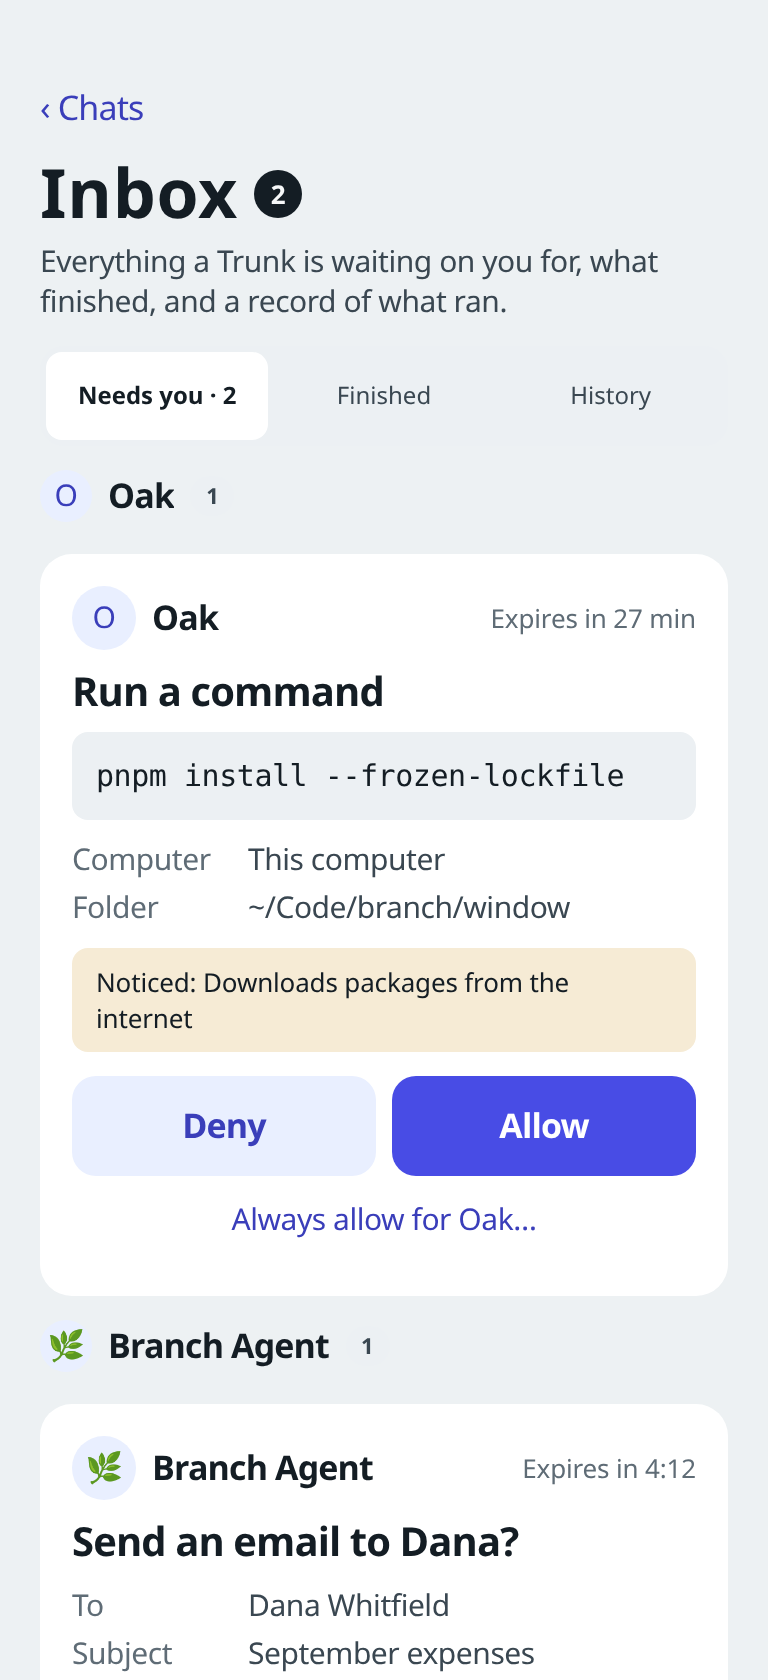
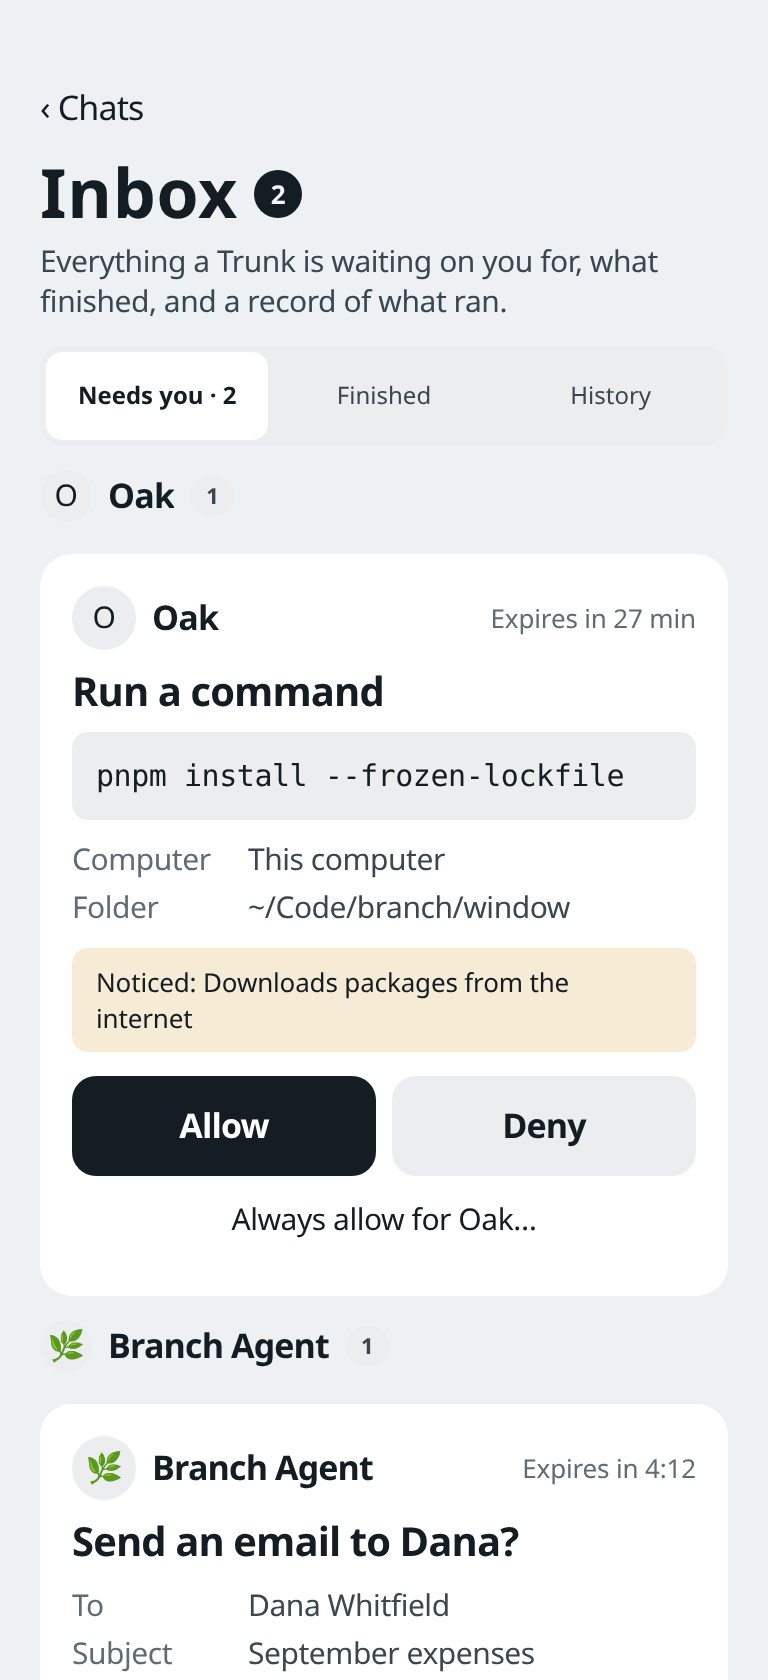
docs(mobile): recapture Inbox r50 proof after ink pills
Needs you shows black Allow / gray Deny and no leftover Finished list.
Finished and History stay on their own tabs.

diff --git a/mobile/src/screens/ApprovalsScreen.tsx b/mobile/src/screens/ApprovalsScreen.tsx
@@ -460,6 +460,7 @@ export function ApprovalsScreen({
   focusId,
   test,
   now: fixedNow,
+  initialTab = 'needs',
 }: {
   snapshot: ApprovalsSnapshot;
   online: boolean;
@@ -477,11 +478,13 @@ export function ApprovalsScreen({
   /** The test approval tools, in builds that have them (testApproval.ts testApprovalsOn). */
   test?: { state: TestApprovalState; onSend: (delayMs: number) => void; onCancel: () => void };
   now?: number;
+  /** Starts on this tab (screenshots and tests). Taps still switch. */
+  initialTab?: InboxTab;
 }) {
   const { color, space, radius, layout } = useTheme();
   const insets = useSafeAreaInsets();
   const now = useNow(fixedNow, snapshot.pending.some((a) => a.expiresAtMs));
-  const [tab, setTab] = useState<InboxTab>('needs');
+  const [tab, setTab] = useState<InboxTab>(initialTab);
   const pending = focusId ? [...snapshot.pending].sort((a, b) => Number(b.id === focusId) - Number(a.id === focusId)) : snapshot.pending;
   const waiting = snapshot.pending.filter((a) => !isExpired(a, now)).length;
   const groups = groupByTrunk(pending, snapshot.trunks, focusId);
